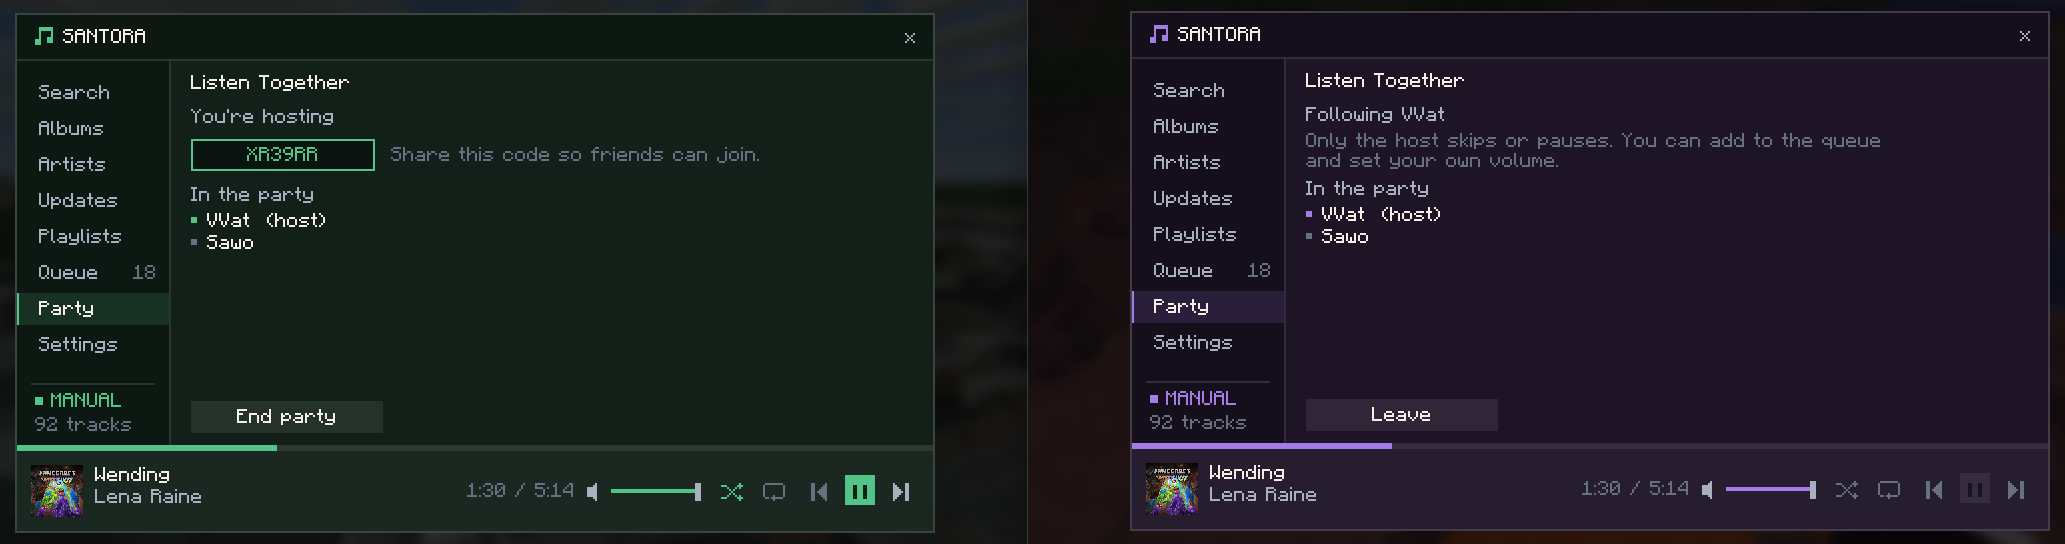
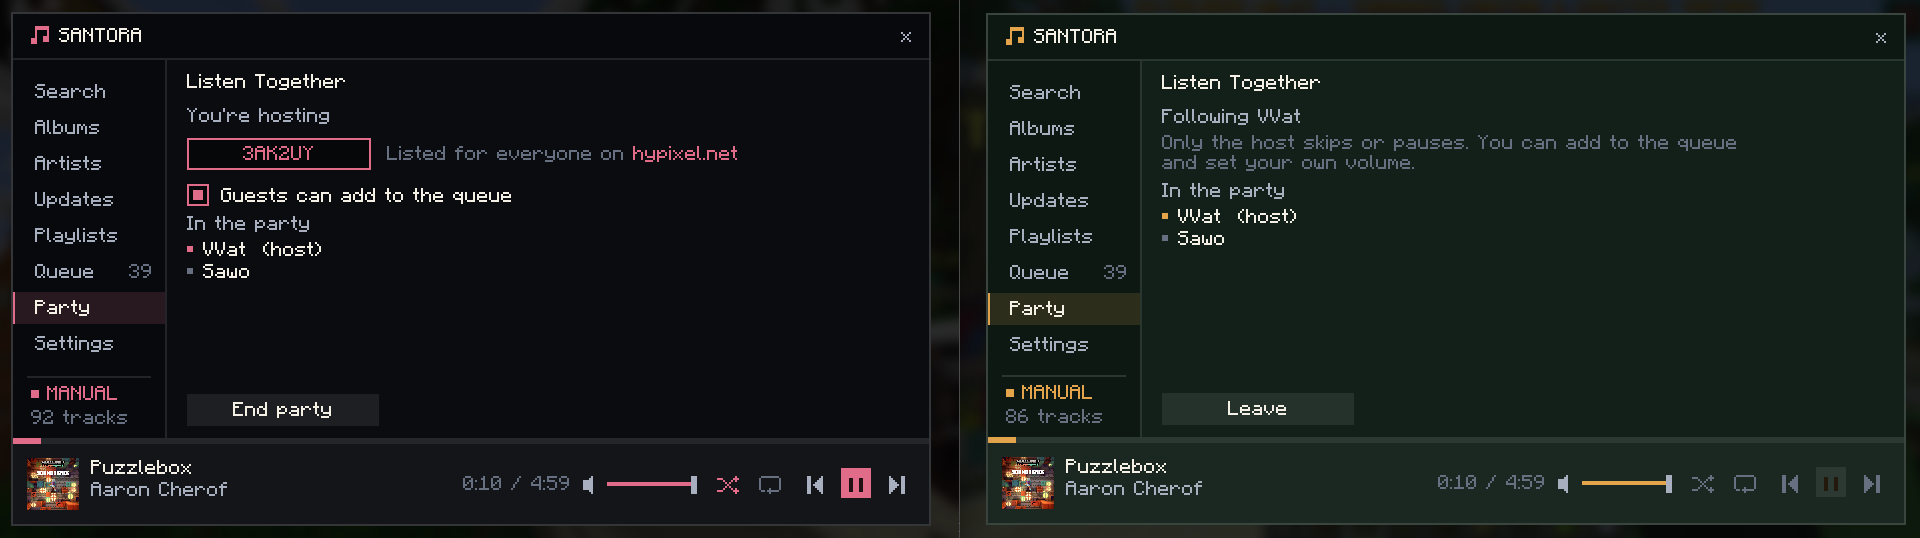
updated listening party screenshots

diff --git a/README.md b/README.md
@@ -94,6 +94,8 @@ You can join your friends parties using a code. Everyone can add songs to the qu
 
 <img src="screenshots/listening_party2.png" width="100%" alt="Two players listening to the same track in sync" />
 
+<img src="screenshots/listening_party3.png" width="100%" alt="Party available to everyone when set to public" />
+
 ---
 
 ## Now Playing HUD
